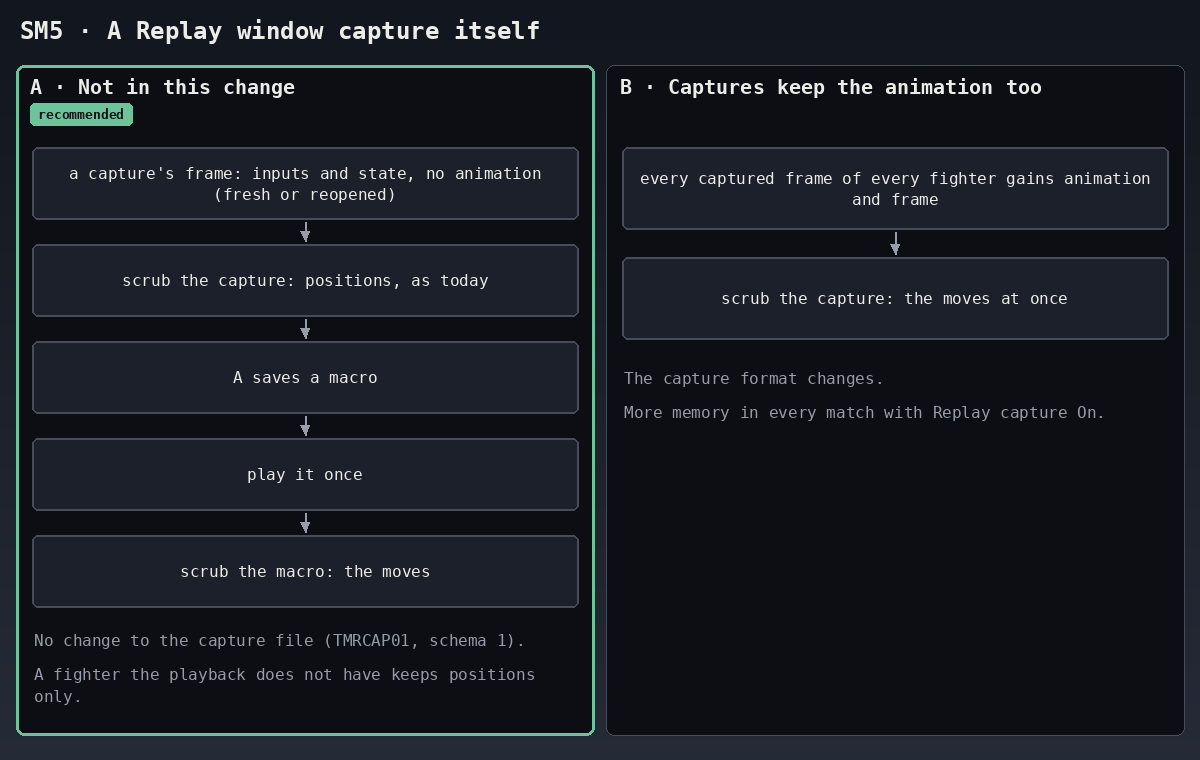
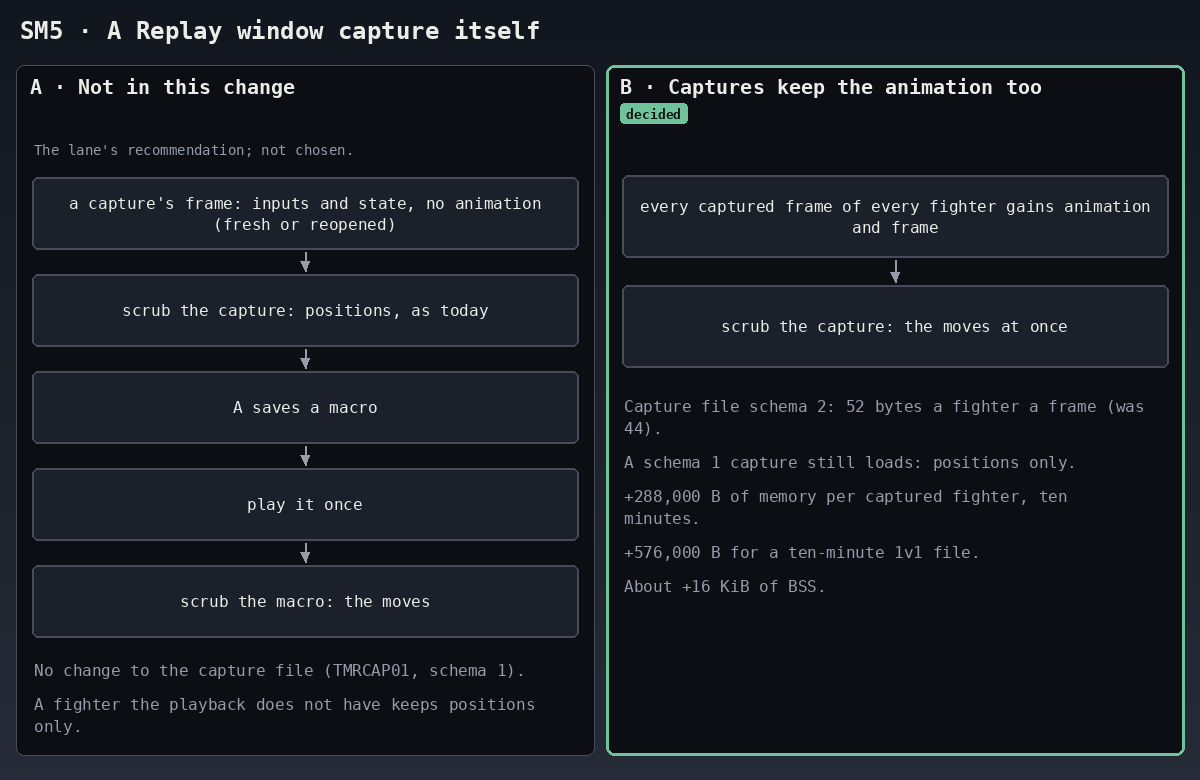
Scrub-moves: decided (SM1 A, SM2 A, SM3 A, SM4 A, SM5 B); SM5's picture marks the decision
The operator's answer of 2026-11-26 about 14:07Z is recorded in the section.
Nothing is built.

diff --git a/tools/render_scrub_moves.py b/tools/render_scrub_moves.py
@@ -231,9 +231,12 @@ def sm4():
 def sm5():
     c = Canvas(W, 860)
     title(c, "SM5 · A Replay window capture itself")
-    ay = d.panel(c, 16, 65, 594, 735, "A · Not in this change", rec=True, tag_below=True)
-    by = d.panel(c, 606, 65, 1184, 735, "B · Captures keep the animation too", tag_below=True)
-    aend = vertical_flow(c, 32, 578, ay + 8, [
+    ay = d.panel(c, 16, 65, 594, 755, "A · Not in this change", tag_below=True)
+    by = d.panel(c, 606, 65, 1184, 755, "B · Captures keep the animation too", tag_below=True)
+    c.rect(606, 65, 1184, 755, outline=d.OURS, width=3, radius=8)
+    d.tag(c, 620, 103, "decided", d.OURS)
+    paragraph(c, 34, ay + 3, "The lane's recommendation; not chosen.", 530)
+    aend = vertical_flow(c, 32, 578, ay + 38, [
         "a capture's frame: inputs and state, no animation (fresh or reopened)",
         "scrub the capture: positions, as today",
         "A saves a macro",
@@ -242,13 +245,20 @@ def sm5():
     ], height=72, gap=25)
     y = paragraph(c, 34, aend + 24, "No change to the capture file (TMRCAP01, schema 1).", 530, "s") + 12
     paragraph(c, 34, y, "A fighter the playback does not have keeps positions only.", 530, "s")
-    bend = vertical_flow(c, 622, 1168, by + 8, [
+    bend = vertical_flow(c, 622, 1168, by + 36, [
         "every captured frame of every fighter gains animation and frame",
         "scrub the capture: the moves at once",
     ], height=82, gap=28)
-    y = paragraph(c, 624, bend + 30, "The capture format changes.", 530, "s") + 12
-    paragraph(c, 624, y, "More memory in every match with Replay capture On.", 530, "s")
-    c.save("scrub-moves-SM5-captures", 760)
+    y = bend + 30
+    for text in [
+        "Capture file schema 2: 52 bytes a fighter a frame (was 44).",
+        "A schema 1 capture still loads: positions only.",
+        "+288,000 B of memory per captured fighter, ten minutes.",
+        "+576,000 B for a ten-minute 1v1 file.",
+        "About +16 KiB of BSS.",
+    ]:
+        y = paragraph(c, 624, y, text, 530, "s") + 12
+    c.save("scrub-moves-SM5-captures", 780)
 
 
 if __name__ == "__main__":

diff --git a/docs/DECISIONS.md b/docs/DECISIONS.md
@@ -2181,7 +2181,7 @@ alike (2026-11-22, above); no per-stage and no per-fighter table.
 
 Host tests only; not yet seen in a game.
 
-## Clip editor: scrubbing shows the moves, and a fighter toggle (2026-11-26): proposed, not decided
+## Clip editor: scrubbing shows the moves, and a fighter toggle (2026-11-26): decided (operator)
 
 The operator, 2026-11-26 about 12:41Z, on install 6 (relayed by tr-primary-2, inbox 12:41:51Z), verbatim:
 
@@ -2205,15 +2205,24 @@ The operator, 2026-11-26 about 12:41Z, on install 6 (relayed by tr-primary-2, in
   Ask before switching fighter is On, Fighter Mismatch asks "Keep current fighter | Switch to recorded fighter".
   It is never asked for a saved macro, never for Player 1, and it cannot be undone from the editor.
 
-**Proposed** (lane place-t1a; a green outline in a picture marks the recommendation). Five choices:
+**The design** (lane place-t1a) put five choices. tr-primary-2 ruled SM1 and SM2 (inbox 13:15:07Z); the operator saw
+them and did not change them.
 
-| | Choice | Recommended |
+**The operator's answers**, 2026-11-26 about 14:07Z (relayed by tr-primary-2, inbox 14:06:58Z), verbatim: "SM3 A,
+SM4 A, SM5 B, approve the message"
+
+**Decided:**
+
+| | Choice | Decided |
 | --- | --- | --- |
-| SM1 | What a shown frame draws | **A, the animation and its frame, and nothing else.** A row also keeps the fighter's animation (the game's 40-bit name) and its frame. On a shown frame the held fighter is given that animation at that frame, at speed 0, while its scripts sleep. The status is not forced: a status change runs the game's own code for that status, which is where articles, effects and movement come from. B forces the status too. |
-| SM2 | How a positions file gets its moves | **A, version 2 of the file, filled by use.** Record, a crop and a playback write version 2 (48 bytes a row, was 36). A version 1 file still loads and shows positions only, with the line "Play it once to see the moves while scrubbing.". One eligible playback upgrades it: a generated file is replaced by a run at least as long; a whole file recorded with the take keeps its own rows and gets the run's animations, on the frames where the run's fighter and status equal the recorded ones. A shorter run, a stopped preview or a failed write changes nothing. A recorded file that is shorter than its inputs follows the rule of the 1,200-frame fix (2026-11-26): a longer run replaces it, as generated. B replaces a whole recorded file by the playback's. C leaves whole recorded files as they are. |
-| SM3 | Recorded fighter or the one you are on | **A, a toggle for each fighter, default the one you are on.** Player 1 and the CPU each switch between the fighter the take recorded for them and the fighter they were when the editor opened, on a saved macro and on a capture alike, through the roster's existing loader. Moves are drawn only on the recorded fighter; on another one the scrub shows positions, as today, and the strip says which key switches. The fighters stay as toggled when the editor closes. B puts both back on close. |
-| SM4 | The keys | **A, ZL + L for Player 1 and ZL + R for the CPU** (ZR works as ZL does; Z on a GameCube controller). Left is Player 1 and right is the CPU, as on the damage display. The strip names both fighters and the keys. B opens a two-row pop-up, like Fighter Mismatch, and changes them there. |
-| SM5 | A Replay window capture itself | **A, not in this change.** A capture's own frames keep no animation, and its file (`TMRCAP01`, schema 1, 44 bytes a fighter a frame) is not changed. So scrubbing a capture, fresh or reopened from its file, shows positions as today. A macro saved from it keeps the capture's own rows, and one playback adds the animations under SM2's rule: only on frames whose fighter and status equal the captured ones. A fighter the playback does not have, such as the match's other fighter, keeps positions only. B adds the animation to every captured frame of every fighter, which changes the capture format and costs memory in every match with Replay capture On. |
+| SM1 | What a shown frame draws | **A, the animation and its frame, and nothing else.** A row also keeps the fighter's animation (the game's 40-bit name) and its frame. On a shown frame the held fighter is given that animation at that frame, at speed 0, while its scripts sleep. The status is not forced: a status change runs the game's own code for that status, which is where articles, effects and movement come from. |
+| SM2 | How a positions file gets its moves | **A, version 2 of the file, filled by use.** Record, a crop and a playback write version 2 (48 bytes a row, was 36). A version 1 file still loads and shows positions only, with the line "Play it once to see the moves while scrubbing.". One eligible playback upgrades it: a generated file is replaced by a run at least as long; a whole file recorded with the take keeps its own rows and gets the run's animations, on the frames where the run's fighter and status equal the recorded ones. A shorter run, a stopped preview or a failed write changes nothing. A recorded file that is shorter than its inputs follows the rule of the 1,200-frame fix (2026-11-26): a longer run replaces it, as generated. |
+| SM3 | Recorded fighter or the one you are on | **A, a toggle for each fighter, default the one you are on.** Player 1 and the CPU each switch between the fighter the take recorded for them and the fighter they were when the editor opened, on a saved macro and on a capture alike, through the roster's existing loader. Moves are drawn only on the recorded fighter; on another one the scrub shows positions, as today, and the strip says which key switches. The fighters stay as toggled when the editor closes. Player 1's way back is by fighter kind, so a Mii Fighter may come back as another Mii of that kind. |
+| SM4 | The keys | **A, ZL + L for Player 1 and ZL + R for the CPU** (ZR works as ZL does; Z on a GameCube controller). Left is Player 1 and right is the CPU, as on the damage display. With the modifier held, L and R no longer pick In and Out. The strip names both fighters and the keys. |
+| SM5 | A Replay window capture itself | **B, captures keep the animation too.** Every captured frame of every fighter also keeps its animation and frame, so scrubbing a capture shows the moves at once. The capture file goes to schema 2 (52 bytes a fighter a frame, was 44). A schema 1 capture still loads and shows positions only: the moves of its fighters cannot be recovered from it. The lane had recommended A, leaving captures out of this change. |
+
+A "recommended" mark in a picture is the lane's recommendation at the time. For SM5 the picture marks what was
+decided.
 
 ![SM1: what a shown frame draws](decisions/scrub-moves/scrub-moves-SM1-shown-frame.png)
 
@@ -2225,38 +2234,59 @@ The operator, 2026-11-26 about 12:41Z, on install 6 (relayed by tr-primary-2, in
 
 ![SM5: a capture itself](decisions/scrub-moves/scrub-moves-SM5-captures.png)
 
+**A new line, approved by the operator in the same answer:** "This take has no second fighter.", for a toggle on a
+role the take does not record. Its row in `docs/RESTRICTIONS.md` comes with the code.
+
+**The captured row** (SM5 B): 8 more bytes, as two 32-bit words. The first is the low 32 bits of the animation's
+name. The second is the name's top 8 bits and the frame in 24 bits, 8 of them for the fraction: frames 0 to 65,535
+in steps of 1/256. The positions file keeps SM2's plainer row.
+
 **The game calls** (all but one are already wrapped and guarded in `src/runtime/game.rs` and `state_natives.rs`):
 
-- read when a frame is sampled: `MotionModule::motion_kind`, `MotionModule::frame`;
+- read when a frame is sampled, by Record, by a playback and by a capture: `MotionModule::motion_kind`,
+  `MotionModule::frame`;
 - set on a shown frame: `MotionModule::change_motion(animation, frame, rate 0)`, only when the fighter's own kind is
   the row's kind, the animation is one that fighter has (`MotionModule::is_anim_resource`, the one new guarded call),
   and the hold reports the fighter held with its scripts asleep;
 - kept each frame by reading `motion_kind` and `frame` back and setting again only when they differ;
+- on a frame with no animation for that fighter, or when the hold refuses the point: the plain animation goes back
+  while the fighter stays held, so the last move is never left showing;
 - on release, in this order: a plain animation back (`wait` on the ground, `fall` in the air, speed 1), then the
   hold's own restore, then the scripts wake. A fighter is never woken with an attack's animation on it. This happens
   in the fighter frame that lets the body go, before that frame reports the release (the report the next build's
   preview fix adds). A fighter switch asks for its load only after that report.
 
 **Not established, and what settles it.** Two game facts decide the calls above, and neither can be read from the
-code. A diagnostic-only probe on a running Eden settles both before the feature is built on them:
+code. A diagnostic-only probe on a running Eden settles both before the feature is built on them (approved by
+tr-primary-2, inbox 13:15:07Z and 13:25:42Z):
 
-- whether an animation set on a fighter that is stopped whole is drawn at once. If it is not, the fighter is let
-  run for the one frame of the change, with its scripts asleep and at speed 0, and stopped again;
-- that nothing hits, sounds or spawns when the fighter is released: the other fighter stands inside the move's
-  hitbox while its active frames are scrubbed over and then let go, and its damage and status are read.
+- whether an animation set on a fighter that is stopped whole is drawn at once;
+- that nothing hits, sounds or spawns while a pose is set, moved, held and let go. An awake forward smash is the
+  control: a read counts only if it shows that attack.
 
-**Cost** (computed, not measured): a row grows from 9 to 12 words. A positions file goes from 72 to 96 bytes a
-frame, 2.59 MB to 3.46 MB for a ten-minute macro. A block of the take's memory goes from 43,200 to 57,600 bytes, so
-an armed playback holds 115,200 bytes (was 86,400) and keeps 57,600. Sampling reads two more values per fighter per
-frame. The Play-start rows and the stack tables are measured again at READY.
+**Cost** (computed, not measured; the capture figures are the ones the operator approved):
 
-**Not shown, under A:** projectiles and other articles, items, damage, effects, a weapon or body part that a script
-shows or hides, faces, and a fighter the take does not record (Nana, a second Pokémon after a switch).
+- **Positions file and take memory:** a row grows from 9 to 12 words. A positions file goes from 72 to 96 bytes a
+  frame, 2.59 MB to 3.46 MB for a ten-minute macro. A block of the take's memory goes from 43,200 to 57,600 bytes,
+  so an armed playback holds 115,200 bytes (was 86,400) and keeps 57,600.
+- **Captures:** +288,000 bytes of memory for each captured fighter over a ten-minute match; +576,000 bytes for a
+  ten-minute 1v1 capture file; about +16 KiB of BSS, because the two queues that carry samples to the worker keep
+  their 1,024 slots.
+- Sampling reads two more values per fighter per frame. BSS, Play start and the stack tables are measured at READY
+  against these figures.
 
-**Order of work:** behind tile-fix-g4's fix of the shared hold (a held body that lands). This change does not edit
-`placement.rs`; the pose is set and cleared by the scrub's own caller, around that hold.
+**Not shown:** projectiles and other articles, items, damage, effects, a weapon or body part that a script shows or
+hides, faces, and a fighter the take does not record (Nana, a second Pokémon after a switch).
+
+**Order of work:** behind tile-fix-g4's fix of the shared hold (a held body that lands) and preview-vis-sol's fixes
+of the 1,200-frame positions and the refused preview. The probe comes first, then the code. This change does not
+edit `placement.rs`; the pose is set and cleared by the scrub's own caller, around that hold.
+
+**Reverses:** "no animation/pose samples are retained in the per-frame capture buffer" (the note on `ReplayFrame`,
+`src/model/macros/replay.rs`); the capture file's single schema; "The pose is frozen or neutral" in the Replay
+window's page.
 
 **Followed:** macros keep their format and playback reads no positions (2026-11-26, scrub positions); old files
 upgrade by use, never by re-recording (operator, 2026-11-26); one roster loader, no second swap mechanism.
 
-Design only: nothing here is built or seen in a game.
+Decided, not built: nothing here is in a build or seen in a game.
